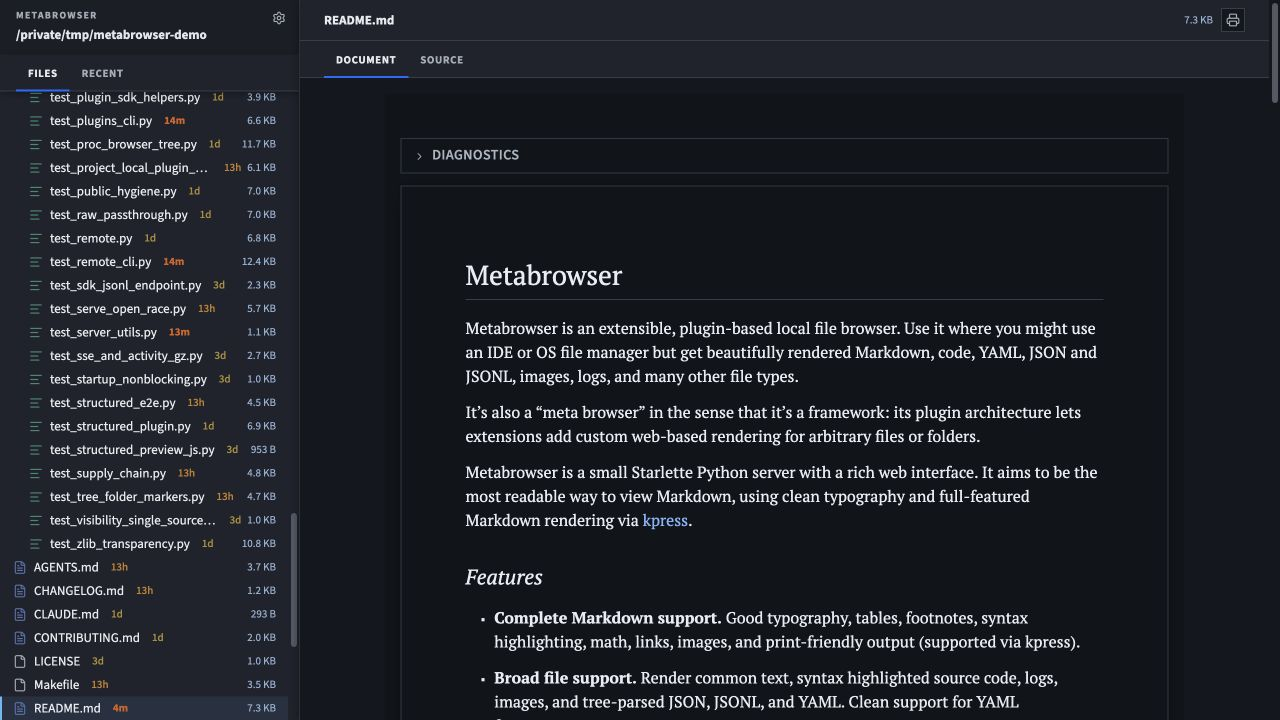
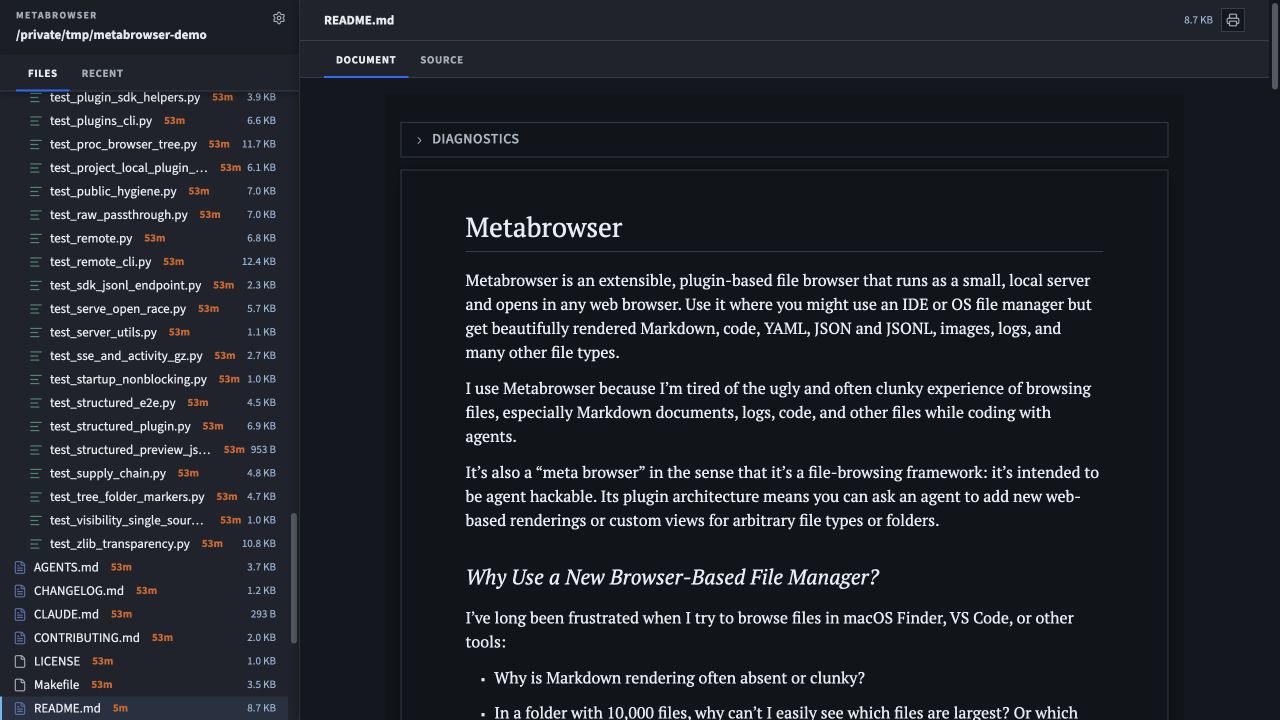
fix: Tighten embedded Markdown spacing

diff --git a/src/metabrowser/static/styles.css b/src/metabrowser/static/styles.css
@@ -1906,6 +1906,17 @@ html[data-prose-font="sans"] {
   color: var(--text);
 }
 
+/* MetaBrowser's content wrapper already supplies the outer document gutter,
+   and KPress's content card supplies its own breathing room. Avoid stacking
+   those with KPress's standalone-page spacing at the top of the embed. */
+.metabrowser-kpress-host .kpress-doc {
+  padding-block-start: var(--content-padding-y);
+}
+
+.metabrowser-kpress-host .kpress-prose > h1:first-child {
+  margin-block-start: 0;
+}
+
 /* ── Embedded KPress documents ─────────────────────────────────────
    metabrowser consumes KPress's own TOC runtime rather than reimplementing
    it. The preview pane is marked `data-kpress-viewport` (see server.py) and

diff --git a/tests/test_kpress_print_contract.py b/tests/test_kpress_print_contract.py
@@ -97,3 +97,11 @@ def test_print_css_hides_chrome_and_preserves_active_printable_surface() -> None
     # §5.1). The old name was --kpress-doc-bg.
     assert "--kpress-host-bg" in css
     assert ".metabrowser-source-truncation-warning" in css
+
+
+def test_embedded_markdown_does_not_double_top_spacing() -> None:
+    css = _read_styles_css()
+    assert ".metabrowser-kpress-host .kpress-doc" in css
+    assert "padding-block-start: var(--content-padding-y)" in css
+    assert ".metabrowser-kpress-host .kpress-prose > h1:first-child" in css
+    assert "margin-block-start: 0" in css

diff --git a/README.md b/README.md
@@ -1,20 +1,53 @@
 # Metabrowser
 
-Metabrowser is an extensible, plugin-based local file browser.
+Metabrowser is an extensible, plugin-based file browser that runs as a small, local
+server and opens in any web browser.
 Use it where you might use an IDE or OS file manager but get beautifully rendered
 Markdown, code, YAML, JSON and JSONL, images, logs, and many other file types.
 
-It’s also a “meta browser” in the sense that it’s a framework: its plugin architecture
-lets extensions add custom web-based rendering for arbitrary files or folders.
+I use Metabrowser because I’m tired of the ugly and often clunky experience of browsing
+files, especially Markdown documents, logs, code, and other files while coding with
+agents.
 
-Metabrowser is a small Starlette Python server with a rich web interface.
-It aims to be the most readable way to view Markdown, using clean typography and
-full-featured Markdown rendering via [kpress](https://github.com/jlevy/kpress).
+It’s also a “meta browser” in the sense that it’s a file-browsing framework: it’s
+intended to be agent hackable.
+Its plugin architecture means you can ask an agent to add new web-based renderings or
+custom views for arbitrary file types or folders.
+
+## Why Use a New Browser-Based File Manager?
+
+I’ve long been frustrated when I try to browse files in macOS Finder, VS Code, or other
+tools:
+
+- Why is Markdown rendering often absent or clunky?
+- In a folder with 10,000 files, why can’t I easily see which files are largest?
+  Or which have been modified recently?
+- Why is it so hard to tail log files in a GUI?
+- How can I cleanly browse a large YAML, JSON, or JSONL file?
+- Do I really have to register customized default apps for every file extension in macOS
+  or Windows?
+- If I want a graphical rendering for a new language or file format, do I really need to
+  ship an entire VS Code extension or a new Electron app?
+
+Metabrowser combines a simple Starlette Python server with a navigator-style web
+interface.
+
+Unlike a typical local web view, it’s live and efficient about watching for updates from
+lots of files. The server watches the file tree in the background and streams updates to
+the frontend.
+
+It especially works well when browsing Markdown docs like agent-written specs.
+It supports clean typography and full-featured Markdown rendering via
+[KPress](https://github.com/jlevy/kpress).
+
+It aims to be the most readable way to view any common file and is my preferred way to
+read Markdown docs.
 
 ## Features
 
 - **Complete Markdown support.** Good typography, tables, footnotes, syntax
-  highlighting, math, links, images, and print-friendly output (supported via kpress).
+  highlighting, math, links, images, and print-friendly output (supported via
+  [kpress](https://github.com/jlevy/kpress)).
 
 - **Broad file support.** Render common text, syntax highlighted source code, logs,
   images, and tree-parsed JSON, JSONL, and YAML. Clean support for YAML frontmatter.
@@ -32,10 +65,14 @@ full-featured Markdown rendering via [kpress](https://github.com/jlevy/kpress).
   architecture adds file matching and browser views, with optional Python data hooks and
   JSONL adapters, without changing Metabrowser core.
 
+It doesn’t currently support editing (or commenting on Markdown docs), but it could in
+the future.
+
 ## Quick Start
 
-Metabrowser uses [uv](https://docs.astral.sh/uv/). Run the latest published release
-without installing a global tool:
+Metabrowser requires Python 3.12 or newer and uses [uv](https://docs.astral.sh/uv/).
+Node.js and npm are not required to install or run it.
+Run the latest published release without installing a global tool:
 
 ```shell
 uvx metabrowser .
@@ -180,6 +217,10 @@ its subcommands as the source of truth.
 A globally installed `metab` remains available as the faster local command.
 
 ## Develop
+
+Development requires uv 0.11.26 or newer, Node 24.18 or newer on the Node 24 LTS line,
+and npm 11.10 or newer on npm 11. The Node and npm requirements apply only to repository
+tooling.
 
 The repository uses uv, Ruff, BasedPyright, pytest, Biome, TypeScript check-JS, and
 Flowmark:

diff --git a/docs/specs/metabrowser-v0.1.0.md b/docs/specs/metabrowser-v0.1.0.md
@@ -110,6 +110,8 @@ Connect trusted publishing without a package token.
 - [x] Simplify the README around `uvx metabrowser`, the globally installed `metab`
   command, plugin discovery, and command help; publish the L1 Agent Skill at
   `skills/metabrowser/SKILL.md` with a pinned `uvx metabrowser@0.1.0` runner
+- [x] Refresh the public README screenshot and remove redundant top spacing from
+  embedded KPress documents and their first headings
 - [x] Add CI, tag-driven publishing, artifact inspection, behavioral release gates, and
   focused cross-file supply-chain checks
 - [x] Align Python and JavaScript quality gates with KPress and tbd guidance using
@@ -215,7 +217,7 @@ The complete local `make -j4 verify` gate passes on the release-candidate workin
 - Flowmark and public-hygiene checks pass for the repository
 - The Metabrowser skill passes the Agent Skills structure validator and uses the pinned
   first-release `uvx` runner
-- 704 Python and browser contract tests pass
+- 705 Python and browser contract tests pass
 - The source distribution and wheel contain the required assets and no local
   environments, build trees, or repository-only tbd and agent metadata
 - The frozen Python and npm dependency graphs have no known vulnerabilities
